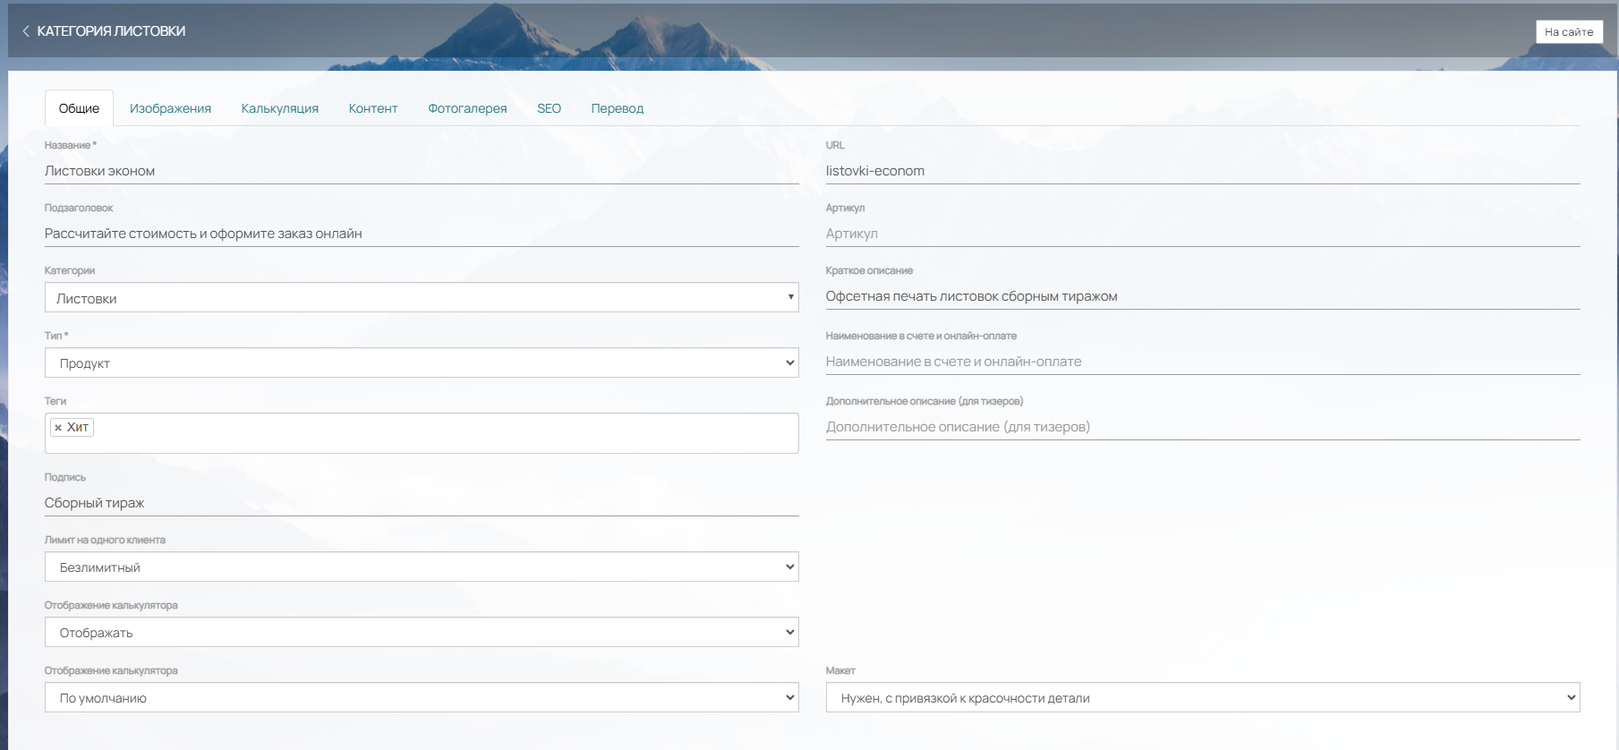
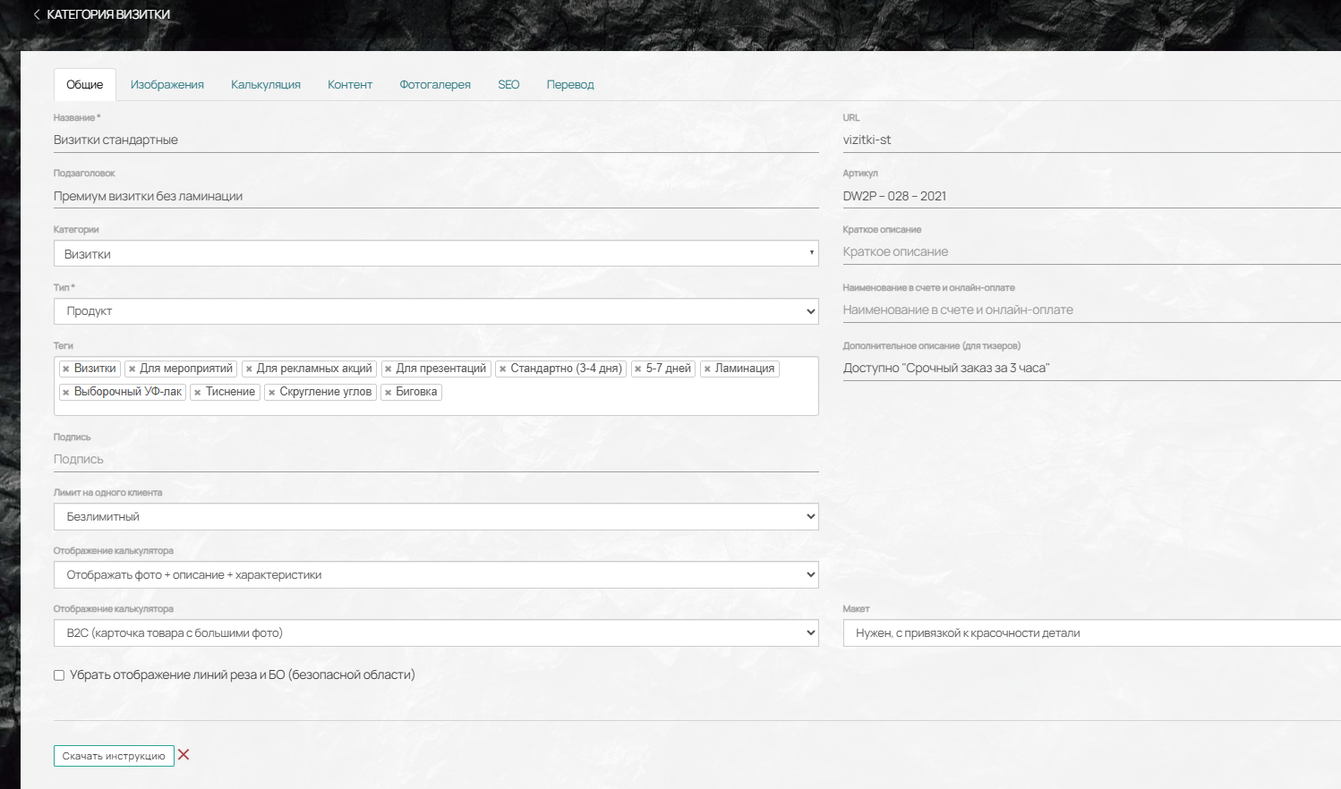
Update 26 files
- tcs.md
 - product/produkty/vkladka-obschie.md
   - product/produkty/vkladka-obschie-13.png
   - product/produkty/vkladka-obschie-14.png
   - product/produkty/vkladka-obschie-15.png
   - product/produkty/vkladka-obschie-16.png
   - product/produkty/vkladka-obschie-17.png
   - product/produkty/vkladka-obschie-18.png
   - product/produkty/vkladka-obschie-19.png
   - product/produkty/vkladka-obschie-20.png
   - product/produkty/vkladka-obschie-21.png
   - product/produkty/vkladka-obschie-22.png
   - product/produkty/vkladka-obschie.png
 - product/produkty/vkladka-obshie.md
 - .gitbook/assets/image (2037).png
 - .gitbook/assets/image (3815).png
 - .gitbook/assets/image (3816).png
 - .gitbook/assets/image (3817).png
 - .gitbook/assets/image (3818).png
 - .gitbook/assets/image (3820).png
 - .gitbook/assets/image (3821).png
 - .gitbook/assets/image (3822).png
 - .gitbook/assets/image (3823).png
 - .gitbook/assets/image (3824).png
 - .gitbook/assets/image (3961).png
 - .gitbook/assets/Продукция вкладка Общее.png

diff --git a/product/produkty/vkladka-obschie.md b/product/produkty/vkladka-obschie.md
@@ -3,15 +3,15 @@ order: 0.4
 title: Вкладка Общие
 ---
 
-Вкладка Общая содержит всю необходимую вводную информацию о товаре. Кроме уже внесенных названия и категории в данной вкладке можно администрировать следующие параметры:
+Вкладка «Общие» предназначена для управления основной информацией о товаре. Помимо стандартных полей «Название» и «Категория», здесь доступны для администрирования следующие параметры:
 
-![](./vkladka-obschie.png){width=1809px height=838px}
+![](./vkladka-obschie.png){width=1498px height=882px}
 
 
 
 ### **Подзаголовок**
 
-Он отобразится в карточке товара в верхней части перед калькулятором
+Отображается в карточке товара, в верхней части страницы, перед блоком калькулятора.
 
 ![](./vkladka-obschie-2.png){width=768px height=166px}
 
@@ -19,15 +19,23 @@ title: Вкладка Общие
 
 ### **Тип**
 
-Является обязательным полем. Можно выбрать два типа товара: Услуга или Продукт
+Обязательное поле. Доступны два варианта: «Услуга» или «Продукт».
+
+![](./vkladka-obschie-13.png){width=211px height=105px}
+
+
 
 ### **Теги**
 
-К каждому продукту можно назначить один или несколько тегов. С помощью тегов можно визуально выделить продукт или вовсе создать фильтр внутри категории продуктов. Более подробно можно узнать из статьи в справке [Теги](./../tegi-filtr-produkcii)
+Позволяют назначить продукту один или несколько тегов. Теги используются для визуальной маркировки товара в каталоге, а также для организации фильтрации внутри категории. Подробнее -- в статье [Теги](./../tegi-filtr-produkcii)
+
+![](./vkladka-obschie-14.png){width=346px height=88px}
+
+
 
 ### **Подпись**
 
-Не является обязательным полем. Используется для указания подписи под названием продукта, который отображается в каталоге товаров
+Необязательное поле. Указывается под названием продукта в каталоге товаров.
 
 ![](./vkladka-obschie-3.png){width=768px height=134px}
 
@@ -35,61 +43,95 @@ title: Вкладка Общие
 
 ### **Лимит на одного клиента**
 
-Можно выбрать один из двух параметров: 1. Безлимитный - обычный продукт с неограниченным кол-вом заказов 2. Промо-продукт - из названия понятно его предназначение, и если выбрать данный параметр, то продукт можно будет заказать всего один раз. После первого заказа, продукт продолжит отображаться для клиента, но при попытке повторного оформления, в корзине выйдет предупреждение "Промо-комплект продукта (название) вы уже приобрели ранее".
+Доступны два режима:
 
-### **Отображение калькуляции**
+-  **Безлимитный** -- стандартный продукт с неограниченным количеством заказов.
 
-Позволяет скрыть калькуляцию продукта, если это потребуется. Клиент будет видеть общую информацию, текст контента, изображения фотогалереи и требования к макетам.
+-  **Промо-продукт** -- предназначен для разовых заказов. После первого оформления товар продолжает отображаться в каталоге, но при повторной попытке добавления в корзину система выдаст предупреждение: *«Промо-комплект продукта (название) вы уже приобрели ранее»*.
+
+![](./vkladka-obschie-15.png){width=938px height=130px}
+
+
 
 ### **Отображение калькулятора**
 
-В этом поле можете выбрать разное отображение калькулятора: По умолчанию, Вид "Нейро", В2В (Горизонтальный), В2С (Карточка товара).
+Позволяет управлять видимостью калькуляционной части на странице товара. Доступны три режима:
 
-Примеры отображений:
+-  **Отображать** -- калькулятор и остальной контент полностью активен и виден.
 
-**По умолчанию -** Вертикальное отображение параметров
+![](./vkladka-obschie-18.png){width=1330px height=809px}
+
+
+
+-  **Не отображать** -- калькулятор скрыт. Клиенту доступен только контент, расположенный до и после него; информация о товаре на странице не показывается.
+
+![](./vkladka-obschie-17.png){width=1288px height=550px}
+
+
+
+-  **Отображать фото + Описание + Характеристики** -- калькулятор скрыт, при этом на странице остаются видны фотография товара, его описание и характеристики.
+
+![](./vkladka-obschie-16.png){width=1207px height=781px}
+
+
+
+### **Отображение калькулятора**
+
+Доступны четыре режима:
+
+-  **По умолчанию** -- вертикальное расположение параметров.
 
 ![](./vkladka-obschie-4.png){width=768px height=381px}
 
 
 
-**Нейро -** Последовательный выбор параметров
+-  **Нейро** -- последовательный (пошаговый) выбор параметров.
 
 ![](./vkladka-obschie-5.png){width=768px height=419px}
 
 
 
-**В2В (Горизонтальный) -** Все параметры располагаются горизонтально и помещаются на одной странице
+-  **В2В (Горизонтальный)** -- все параметры размещены горизонтально на одной странице.
 
 ![](./vkladka-obschie-6.png){width=768px height=452px}
 
 
 
-**В2С (Карточка товара)-** Позволяет отображать картинки фотогалереи слева, основные параметры по центру, дату готовности снизу
+-  **В2С (Карточка товара)** -- фотогалерея выводится слева, основные параметры -- по центру, дата готовности -- снизу.
 
 ![](./vkladka-obschie-7.png){width=768px height=406px}
 
 
 
+### **Чекбокс «Убрать отображение линий реза и БО (безопасной области)»**
+
+Скрывает линии реза и границы безопасной области при проверке макета. Опция полезна для упрощения восприятия фигурных макетов конечным клиентом.
+
+![](./vkladka-obschie-19.png){width=1564px height=856px}
+
 
 
 ### **Загрузить инструкцию**
 
-Это кнопка, при нажатии на которую можно выбрать файл с инструкцией (только **PDF**) на вашем компьютере.
+Кнопка, позволяющая прикрепить файл инструкции в формате PDF.
 
 После загрузки:
 
--  Чтобы скачать инструкцию, нажмите **«Скачать инструкцию»**.
-
--  Чтобы удалить загруженный файл, нажмите на **крестик** справа от кнопки.
+-  для скачивания инструкции нажмите «Скачать инструкцию»;
 
 ![](./vkladka-obschie-8.png){width=768px height=229px}
 
 
 
+-  для удаления файла нажмите на крестик справа от кнопки.
+
+![](./vkladka-obschie-20.png){width=931px height=313px}
+
+
+
 ### **URL**
 
-Поле *"url"* заполняется автоматически при введении названия продукта. Можете также самостоятельно ввести удобный вам URL-адрес. Если введённый адрес уже существует, то вам выйдет предупреждение о наличии данного URL на сайте. Укажите другой адрес, либо удалите или замените уже существующий, только после этого можно будет изменить URL.
+Генерируется автоматически на основе названия продукта. Допускается ручное редактирование. Если введённый адрес уже используется на сайте, система отобразит предупреждение. Для сохранения изменений потребуется указать другой URL либо заменить существующий.
 
 ![](./vkladka-obschie-9.png){width=1815px height=548px}
 
@@ -101,46 +143,54 @@ title: Вкладка Общие
 
 ### **Краткое описание**
 
-При заполнении поля, данные отображаются в верхнем меню под названием продукта.
+Отображается в списке меню под названием продукта. Не действует для типа меню «Мегаменю».
 
 ![](./vkladka-obschie-10.png){width=768px height=611px}
 
 
 
-### **Наименование в счете**
+### **Наименование в счете и онлайн-оплате**
 
-Если вам нужно, чтобы у какого-либо продукта в счете было отличное от сайта наименование, впишите нужное в поле *Наименование в счете.*
+Позволяет задать альтернативное наименование продукта, которое будет использоваться в платёжных и учётных документах, отличное от названия на сайте.
 
 ### **Дополнительное описание (для тизеров)**
 
-Отображает надпись над кнопкой перехода к калькуляции.
+Выводится в каталоге товаров под названием, над кнопкой перехода к калькуляции.
 
 ![](./vkladka-obschie-11.png){width=768px height=345px}
 
 
 
-### **Макет**
+## **Макет**
 
-Данное поле необходимо для того, что бы у клиента был выбор, загрузить макет самостоятельно, либо создать его в онлайн конструкторе. Данный выбор работает, если в Настройки -> Другие настройки -> Настройки оформления заказа, поставлена галочка "Обязательная загрузка макета в калькуляции"
+Определяет способ загрузки макета клиентом. Доступно при активированной опции «Обязательная загрузка макета в калькуляции» в разделе *Настройки -> Другие настройки -> Настройки оформления заказа*.
 
-**Нужен с привязкой к красочности детали:** При выборе данного параметра, в корзине, над кнопкой оформления заказа, появится выбор: применить *Готовый дизайн*, *Создать с нуля* и загрузить *Свой макет*.
 
-*• [highlight:green]Готовый дизайн[/highlight]* Позволит выбрать из каталога дизайнов подходящий вам дизайн продукта
 
-*• [highlight:yellow]Создать с нуля[/highlight]* При выборе данного способа, откроется конструктор, в котором уже выбраны доступные варианты оформления продукта, в зависимости от конструкторских размеров, которые были указаны в калькуляции при создании продукта
+-  **Нужен с привязкой к красочности детали:** 
 
-*• [highlight:blue]Свой макет[/highlight]* Позволяет покупателю загрузить собственный, готовый макет.
+В корзине, над кнопкой оформления заказа, клиенту предлагается выбор:
+
+*• [highlight:green]Готовый дизайн[/highlight]* -- выбор подходящего макета из каталога дизайнов;
+
+*• [highlight:yellow]Создать с нуля[/highlight]* -- открытие конструктора с предустановленными вариантами оформления, соответствующими размерам, указанным в калькуляции;
+
+*• [highlight:blue]Свой макет[/highlight]* -- загрузка собственного готового файла.
 
 ![](./vkladka-obschie-12.png){width=752px height=400px}
 
 
 
-**Нужен без привязки к красочности детали:**
+-  **Нужен без привязки к красочности детали:**
 
-Делает обязательной загрузку макета, без применения конструктора.
+Загрузка макета является обязательной, использование конструктора не предусмотрено. В данном случае автоматическая проверка макета для продукта не выполняется: система игнорирует как соответствие размеров, так и количество загружаемых PDF-файлов.
+
+![](./vkladka-obschie-21.png){width=825px height=346px}
 
 
 
-**Не нужен ни при каких обстоятельствах:**
+-  **Не нужен ни при каких обстоятельствах:**
 
-Делает невозможным загрузку макета ни каким способом. В корзине вместо кнопки загрузки макета будет отображаться тизер товара (продукта).
+Загрузка макета полностью заблокирована. После добавления в корзину вместо кнопки загрузки отображается тизер товара.
+
+![](./vkladka-obschie-22.png){width=863px height=347px}

diff --git a/tcs.md b/tcs.md
@@ -15,7 +15,7 @@ order: 3.5
 
 Для удобства пользования, каждый раздел Справки соответствует разделу в Админ-панели сайта.
 
-Чтобы найти ответ уже на существующий вопрос, перейдите в интересующий вас раздел или воспользуйтесь поиском в правом верхнем углу экрана.
+Чтобы найти ответ уже на существующий вопрос, перейдите в интересующий вас раздел или воспользуйтесь поиском в левом верхнем углу экрана.
 
 :::
 
@@ -23,7 +23,7 @@ order: 3.5
 
 ## **Подробнее о всех разделах нашего сервиса:**
 
--  [👨🔧 Добро пожаловать в центр поддержки TCS](./SUMMARY)
+-  [👨🔧 Добро пожаловать в центр поддержки TCS](./tcs)
 
 -  [🖥 Рабочий стол](./rabochii-stol/README)
 
@@ -429,7 +429,7 @@ order: 3.5
 
    -  [Шрифты](./konstruktor/shrifty)
 
--  [📊 Отчёты](./reports)
+-  [📊 Отчёты](./tcs)
 
 -  [🛠 Настройки](./nastroiki/README)
 
